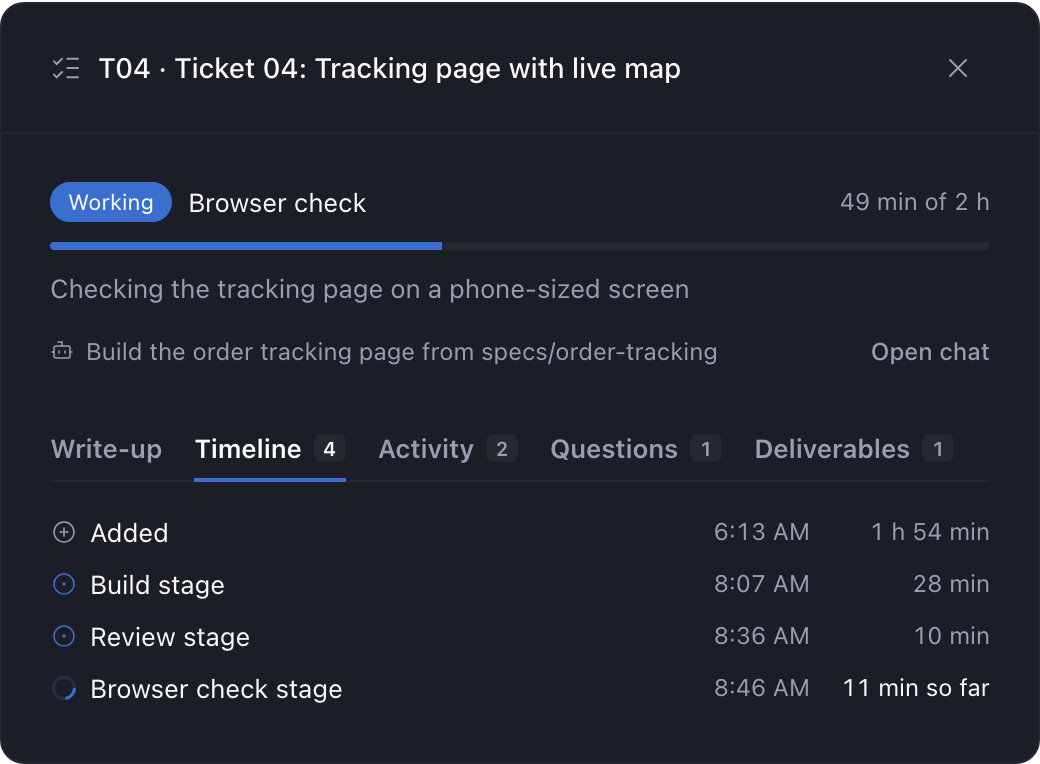
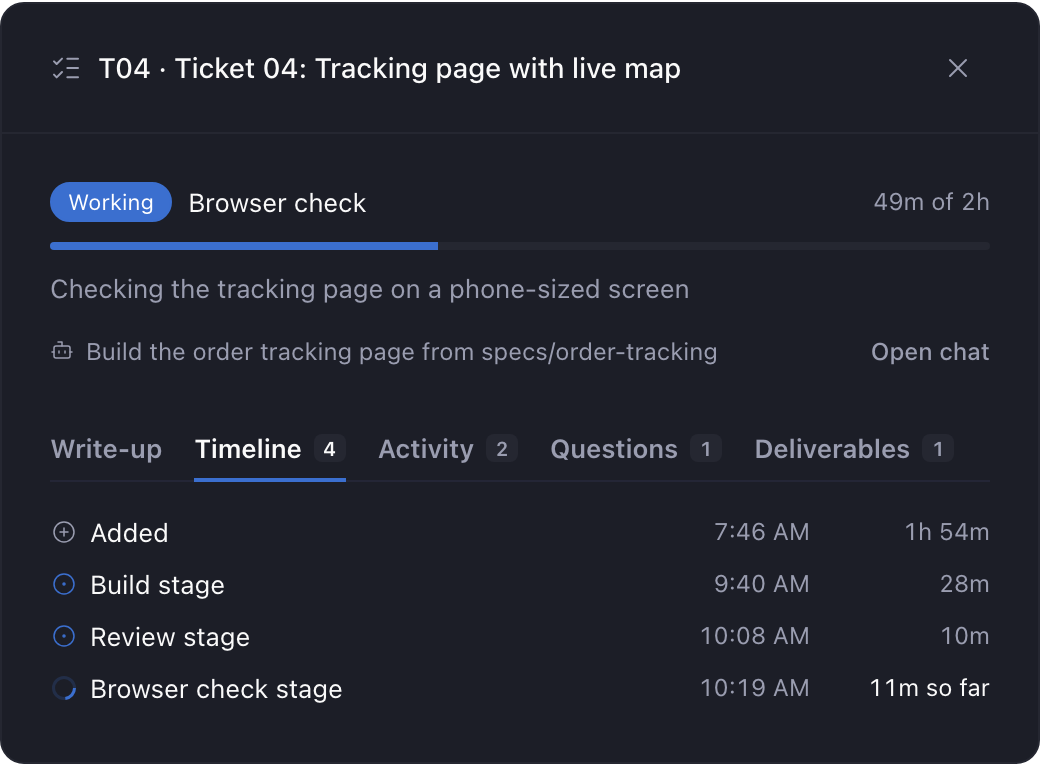
fix(progress): pill fits with something stuck, times stay in one piece, one duration style; bump to 1.0.0 (#73)
The pill shortens questions to "2Q" when something is stuck, so it fits
Paseo's 160 px pill. Times like "(11m ago)" and durations inside sentences
wrap as one piece. Every duration uses the compact "2h 15m" style, and
estimates show the exact minutes instead of tenths of an hour.

diff --git a/progress/server/progress.test.ts b/progress/server/progress.test.ts
@@ -12,7 +12,7 @@ import type { PluginHandlerContext } from "@getpaseo/plugin/server";
 import { runCli } from "./cli.ts";
 import { handleGetAttention, handleGetDashboard, handleListFolders, handleMarkPanelOpened, handleSetHistoryFolder } from "./dashboard.ts";
 import { markPanelOpened, readProgress } from "./progress-file.ts";
-import { formatEstimate, formatMinutes, formatTimeOfDay, formatWorkDone } from "../shared/format.ts";
+import { formatMinutes, formatTimeOfDay, formatWorkDone } from "../shared/format.ts";
 import { finishedToFold, headlineText, type Ticket } from "../shared/dashboard.ts";
 import { defaultLauncherPath, installLauncher, launcherStatus } from "./launcher.ts";
 import { defaultSkillPaths, installSkill, skillSource, skillStatus } from "./skill.ts";
@@ -227,7 +227,7 @@ test("a worktree without a progress file reads as not configured", async (t) => 
 test("tickets added and updated by the agent show up with ids, statuses, and the headline", async (t) => {
   const w = await worktree(t);
   assert.deepEqual(await w.run("start", "Loan Options", "--subtitle", "Frozen links"), { code: 0, text: "Started run: Loan Options" });
-  assert.equal((await w.run("ticket", "add", "Ticket 01: Saved table", "--estimate", "120")).text, "Added T01: Ticket 01: Saved table (120 min)");
+  assert.equal((await w.run("ticket", "add", "Ticket 01: Saved table", "--estimate", "120")).text, "Added T01: Ticket 01: Saved table (2h)");
   await w.run("ticket", "add", "Ticket 02: Copy Link", "--estimate", "150");
   await w.run("ticket", "add", "Ticket 03: Frozen links", "--estimate", "120");
   await w.run("ticket", "add", "Ticket 04: Time zones", "--estimate", "75");
@@ -490,7 +490,7 @@ test("a ticket links to where it's written up: a file in the worktree or a link,
   await mkdir(join(w.directory, "specs"));
   await writeFile(join(w.directory, "specs", "01-login.md"), "# Login\n");
   await w.run("start", "Run");
-  assert.equal((await w.run("ticket", "add", "Ticket 01: Login", "--estimate", "30", "--source", "specs/01-login.md")).text, "Added T01: Ticket 01: Login (30 min), source specs/01-login.md");
+  assert.equal((await w.run("ticket", "add", "Ticket 01: Login", "--estimate", "30", "--source", "specs/01-login.md")).text, "Added T01: Ticket 01: Login (30m), source specs/01-login.md");
   await w.run("ticket", "add", "Ticket 02: Reset", "--estimate", "20", "--source", "https://linear.app/acme/issue/ENG-12=ENG-12");
   await w.run("ticket", "add", "Ticket 03: No write-up", "--estimate", "20");
   let { dashboard } = await w.dashboard();
@@ -581,11 +581,11 @@ async function screenshotRun(t: TestContext) {
   return w;
 }
 
-test("progress matches the reference dashboard: 58%, 4 h 30 min of 7 h 45 min", async (t) => {
+test("progress matches the reference dashboard: 58%, 4h 30m of 7h 45m", async (t) => {
   const w = await screenshotRun(t);
   const { progress } = (await w.dashboard()).dashboard;
   assert.equal(progress.percent, 58);
-  assert.equal(formatWorkDone(progress.doneMin, progress.totalMin), "4 h 30 min of 7 h 45 min");
+  assert.equal(formatWorkDone(progress.doneMin, progress.totalMin), "4h 30m of 7h 45m");
   assert.deepEqual(
     progress.segments.map(({ id, estimateMin, status }) => `${id}:${estimateMin}:${status}`),
     ["T01:120:done", "T02:150:done", "T03:120:working", "T04:75:not_started"],
@@ -627,7 +627,7 @@ test("once every ticket is done, the dashboard says how long the run really took
   await w.run("ticket", "update", "T03", "--status", "skipped");
   const { progress } = (await w.dashboard(200)).dashboard;
   assert.equal(progress.tookMin, 85, "from the start to the last ticket settling, not to now");
-  assert.match((await w.run("show")).text, /100% of estimated work done, took 1 h 25 min/);
+  assert.match((await w.run("show")).text, /100% of estimated work done, took 1h 25m/);
 });
 
 test("a run whose tickets are all done or skipped never turns stale", async (t) => {
@@ -642,20 +642,16 @@ test("display helpers format durations and hours the way the panel shows them", 
   const morning = new Date(2026, 9, 5, 2, 8).toISOString();
   assert.equal(formatTimeOfDay(morning, new Date(2026, 9, 5, 23, 0).getTime()), "2:08 AM", "same day: just the time");
   assert.equal(formatTimeOfDay(morning, new Date(2026, 9, 6, 9, 0).getTime()), "Oct 5, 2:08 AM", "another day: the date too");
-  assert.equal(formatMinutes(0.5), "<1 min");
-  assert.equal(formatMinutes(12), "12 min");
-  assert.equal(formatMinutes(602), "10 h 2 min");
-  assert.equal(formatMinutes(120), "2 h");
-  assert.equal(formatEstimate(45), "45 min", "estimates under an hour stay in minutes");
-  assert.equal(formatEstimate(60), "1 h");
-  assert.equal(formatEstimate(66), "1.1 h");
-  assert.equal(formatEstimate(90), "1.5 h");
-  assert.equal(formatEstimate(150), "2.5 h");
-  assert.equal(formatWorkDone(10, 10), "10 of 10 min", "under an hour, the unit is said once");
-  assert.equal(formatWorkDone(0, 45), "0 min of 45 min");
-  assert.equal(formatWorkDone(30, 120), "30 min of 2 h");
-  assert.equal(formatWorkDone(90, 120), "1 h 30 min of 2 h");
-  assert.equal(formatWorkDone(120, 120, 95), "1 h 35 min", "once done, the real time replaces the estimate");
+  assert.equal(formatMinutes(0.5), "<1m");
+  assert.equal(formatMinutes(12), "12m");
+  assert.equal(formatMinutes(602), "10h 2m");
+  assert.equal(formatMinutes(120), "2h");
+  assert.equal(formatMinutes(66), "1h 6m", "estimates read exactly as set");
+  assert.equal(formatWorkDone(10, 10), "10m of 10m");
+  assert.equal(formatWorkDone(0, 45), "0m of 45m");
+  assert.equal(formatWorkDone(30, 120), "30m of 2h");
+  assert.equal(formatWorkDone(90, 120), "1h 30m of 2h");
+  assert.equal(formatWorkDone(120, 120, 95), "1h 35m", "once done, the real time replaces the estimate");
 });
 
 test("a working ticket shows its stage and when that stage started", async (t) => {
@@ -914,10 +910,10 @@ test("show prints the dashboard as text for the agent", async (t) => {
   for (const expected of [
     "Loan Options",
     "2 of 4 tickets done, 1 question waiting for you, 1 stuck",
-    "58% of estimated work done, 4 h 30 min of 7 h 45 min",
-    "POSSIBLY STALE: no update for 10 h 17 min.",
-    "Ticket 03 (no update for longer than its 2 h estimate)",
-    "T03  Working, Fixes stage  2 h  Ticket 03",
+    "58% of estimated work done, 4h 30m of 7h 45m",
+    "POSSIBLY STALE: no update for 10h 17m.",
+    "Ticket 03 (no update for longer than its 2h estimate)",
+    "T03  Working, Fixes stage  2h  Ticket 03",
     "Q1 (Row spacing): Even out the spacing? You recommended B",
     "      B) No",
     "D1  Screenshots: .scratch/shots/, Ticket 03",

diff --git a/progress/client/panel.tsx b/progress/client/panel.tsx
@@ -8,12 +8,12 @@ import { Spinner, StalledPulse, WaitingDot } from "./spinner";
 import { IconSwap, Presence, StaggerRoot, nativeDriver } from "./motion";
 import { SectionTitle } from "./section-title";
 import { raised } from "./surfaces";
-import { When } from "./when";
+import { unbroken, When } from "./when";
 import React, { useEffect, useRef, useState } from "react";
 import { ActivityIndicator, Animated, Platform, ScrollView, Text, View } from "react-native";
 import { finishedToFold, isFinished, shortTitle, type Activity, type Dashboard, type FileIssue, type ProgressSegment, type StuckItem, type Ticket } from "../shared/dashboard";
 import type { TicketStatus } from "../shared/events";
-import { formatEstimate, formatMinutes, formatWorkDone, minutesSince } from "../shared/format";
+import { formatMinutes, formatWorkDone, minutesSince } from "../shared/format";
 import { markPanelOpened } from "../shared/rpc";
 import { useDashboard } from "./dashboard-query";
 import { STATUS_LABEL } from "./status-badge";
@@ -119,7 +119,7 @@ function StatusLine({ icon, children }: { icon: React.ReactNode; children: React
   );
 }
 
-// Re-renders on an interval so "x min ago" keeps counting between polls.
+// Re-renders on an interval so "11m ago" keeps counting between polls.
 function useNow(intervalMs: number): number {
   const [now, setNow] = useState(() => Date.now());
   useEffect(() => {
@@ -204,7 +204,7 @@ function DashboardView({ colors, dashboard, agentRunning, compact, workspaceId, 
           {/* Optical: centers the 14px icon on the first 18px line. */}
           <View style={{ paddingTop: 2 }}><Icon name="TriangleAlert" size={14} color={colors.statusWarning} /></View>
           <Text style={{ flex: 1, color: colors.statusWarning, fontSize: 12, lineHeight: 18 }}>
-            Possibly stale. No update for {formatMinutes(minutesSince(dashboard.updatedAt, now))}. The work may have stopped, so working items show a warning until the next update.
+            Possibly stale. No update for {unbroken(formatMinutes(minutesSince(dashboard.updatedAt, now)))}. The work may have stopped, so working items show a warning until the next update.
           </Text>
         </View>
       ) : null}</Presence>
@@ -389,7 +389,7 @@ function StuckSection({ colors, items, now }: { colors: Colors; items: StuckItem
           <View style={{ flex: 1, minWidth: 0, gap: 2 }}>
           <Text style={{ color: colors.foreground, fontSize: 13, lineHeight: 18 }}>{item.title}</Text>
           <Text style={{ color: colors.foregroundMuted, fontSize: 12, lineHeight: 17 }}>
-            {item.kind === "overdue" ? `No update for longer than its ${formatMinutes(item.estimateMin)} estimate. Last update ` : null}
+            {item.kind === "overdue" ? `No update for longer than its ${unbroken(formatMinutes(item.estimateMin))} estimate. Last update ` : null}
             {item.kind === "blocked" ? `Blocked${item.note ? `: ${item.note}` : ""}${narrow ? ", " : ". Since "}` : null}
             {item.kind === "manual" ? `${item.ticketId ? `${item.reason}. ` : ""}Flagged ` : null}
             <When colors={colors} iso={item.since} now={now} />
@@ -448,7 +448,7 @@ function FinishedRow({ colors, tickets, shown, onPress }: { colors: Colors; tick
       {/* Narrow ticket rows drop their chevron, so this total would sit off their estimate column. */}
       {narrow ? null : <>
         <View style={{ width: 12 }} />
-        <Text style={{ minWidth: 40, flexShrink: 0, textAlign: "right", color: colors.foregroundMuted, fontSize: 12, lineHeight: 18, fontVariant: ["tabular-nums"] }}>{estimateMin ? formatEstimate(estimateMin) : ""}</Text>
+        <Text style={{ minWidth: 44, flexShrink: 0, textAlign: "right", color: colors.foregroundMuted, fontSize: 12, lineHeight: 18, fontVariant: ["tabular-nums"] }}>{estimateMin ? formatMinutes(estimateMin) : ""}</Text>
       </>}
       <View style={{ paddingTop: 2 }}>
         <IconSwap swapKey={chevron} size={14}><Icon name={chevron} size={14} color={colors.foregroundMuted} /></IconSwap>
@@ -490,11 +490,11 @@ function TicketRow({ colors, ticket, live, now, onOpen, deliverables }: { colors
         ) : null}
         {ticket.note ? <Text style={{ color: colors.foregroundMuted, fontSize: 12, lineHeight: 17 }}>{ticket.note}</Text> : null}
       </View>
-      {/* Fixed slots so the Package icon and estimates line up down the list, whether or not a row has deliverables; they're listed in its dialog. The estimate slot fits "45 min" and "10.5 h"; longer ones grow rather than clip. */}
+      {/* Fixed slots so the Package icon and estimates line up down the list, whether or not a row has deliverables; they're listed in its dialog. The estimate slot fits "45m" up to "9h 45m"; longer ones grow rather than clip. */}
       <View accessibilityLabel={deliverables ? (deliverables === 1 ? "Has a deliverable" : `Has ${deliverables} deliverables`) : undefined} style={{ width: 12, height: 18, justifyContent: "center" }}>
         {deliverables ? <Icon name="Package" size={12} color={colors.foregroundMuted} /> : null}
       </View>
-      <Text style={{ minWidth: 40, flexShrink: 0, textAlign: "right", color: colors.foregroundMuted, fontSize: 12, lineHeight: 18, fontVariant: ["tabular-nums"] }}>{formatEstimate(ticket.estimateMin)}</Text>
+      <Text style={{ minWidth: 44, flexShrink: 0, textAlign: "right", color: colors.foregroundMuted, fontSize: 12, lineHeight: 18, fontVariant: ["tabular-nums"] }}>{formatMinutes(ticket.estimateMin)}</Text>
       {narrow ? null : <View style={{ paddingTop: 2 }}><Icon name="ChevronRight" size={14} color={colors.foregroundMuted} /></View>}
     </PressableRow>
   );

diff --git a/progress/shared/format.ts b/progress/shared/format.ts
@@ -3,30 +3,22 @@
 
 const MONTHS = ["Jan", "Feb", "Mar", "Apr", "May", "Jun", "Jul", "Aug", "Sep", "Oct", "Nov", "Dec"];
 
+// Durations in the compact style the other plugins and most dashboards use:
+// "45m", "2h", "2h 15m". Minutes are whole, so estimates read exactly as set.
 export function formatMinutes(totalMin: number): string {
   const whole = Math.max(0, Math.floor(totalMin));
-  if (whole < 1) return "<1 min";
+  if (whole < 1) return "<1m";
   const hours = Math.floor(whole / 60);
   const minutes = whole % 60;
-  if (!hours) return `${minutes} min`;
-  return minutes ? `${hours} h ${minutes} min` : `${hours} h`;
+  if (!hours) return `${minutes}m`;
+  return minutes ? `${hours}h ${minutes}m` : `${hours}h`;
 }
 
-// A ticket's estimate, the way people say one: "45 min" under an hour, then
-// hours to one decimal: "1 h", "1.5 h", "2.1 h".
-export function formatEstimate(totalMin: number): string {
-  if (totalMin < 60) return formatMinutes(totalMin);
-  return `${Math.round(totalMin / 6) / 10} h`;
-}
-
-// Estimated work done out of the total, in the units people estimate in:
-// "5 of 10 min", "1 h 30 min of 2 h". Under an hour on both sides, the unit is
-// said once.
-// Once everything is done, how long it really took instead: "1 h 20 min".
+// Estimated work done out of the total: "5m of 10m", "1h 30m of 2h".
+// Once everything is done, how long it really took instead: "1h 20m".
 export function formatWorkDone(doneMin: number, totalMin: number, tookMin?: number): string {
   if (tookMin !== undefined) return formatMinutes(tookMin);
-  if (totalMin < 60 && doneMin >= 1) return `${Math.floor(doneMin)} of ${formatMinutes(totalMin)}`;
-  return `${doneMin < 1 ? "0 min" : formatMinutes(doneMin)} of ${formatMinutes(totalMin)}`;
+  return `${doneMin < 1 ? "0m" : formatMinutes(doneMin)} of ${formatMinutes(totalMin)}`;
 }
 
 export function formatClock(iso: string): string {

diff --git a/progress/client/lifecycle.test.ts b/progress/client/lifecycle.test.ts
@@ -88,7 +88,9 @@ test("one rule decides what the pill shows, its icon, and whether pressing it op
   const phone = { phone: true };
   const cases: Array<[string, unknown, { phone: boolean }, unknown]> = [
     ["no progress file", { ...report(2, 1, true, false), configured: false }, desktop, null],
-    ["questions and stuck", report(2, 1, true, true), desktop, { mode: "attention", label: "2 questions · 1 stuck", icon: "stuck" }],
+    ["questions and stuck", report(2, 1, true, true), desktop, { mode: "attention", label: "2Q · 1 stuck", icon: "stuck" }],
+    ["questions only keep the full word", report(12, 0, true, true), desktop, { mode: "attention", label: "12 questions", icon: "questions" }],
+    ["stuck only", report(0, 2, true, true), desktop, { mode: "attention", label: "2 stuck", icon: "stuck" }],
     ["one question, even after the run closed", report(1, 0, false, true), desktop, { mode: "attention", label: "1 question", icon: "questions" }],
     ["a new run's panel never opened", report(0, 0, true, false), desktop, { mode: "started", label: "Progress", icon: "started" }],
     ["panel opened, desktop has Explorer", report(0, 0, true, true), desktop, null],
@@ -121,7 +123,7 @@ test("an agent's composer shows a pill while its workspace has questions waiting
   assert.equal(active().length, 2, "one pill per agent in a workspace that needs attention");
   const pill = active().find((entry) => entry.agentId === "a");
   assert.equal(pill?.placement, "composer");
-  assert.equal(pill?.button.label, "2 questions · 1 stuck");
+  assert.equal(pill?.button.label, "2Q · 1 stuck");
   assert.equal(pill?.button.behavior.kind, "popover", "the pill opens a popover with the questions");
   // The popover's Open Progress button opens the panel in Explorer.
   pill?.button.behavior.Content({ workspaceId: "w", close() {} }).props.openPanel();

diff --git a/progress/shared/show.ts b/progress/shared/show.ts
@@ -1,6 +1,6 @@
 import type { Dashboard } from "./dashboard.ts";
 import { headlineText, shortTitle } from "./dashboard.ts";
-import { formatAgo, formatClock, formatEstimate, formatMinutes, formatWorkDone, minutesSince } from "./format.ts";
+import { formatAgo, formatClock, formatMinutes, formatWorkDone, minutesSince } from "./format.ts";
 
 const STATUS: Record<string, string> = { not_started: "Not started", working: "Working", blocked: "Blocked", done: "Done", skipped: "Skipped" };
 
@@ -38,7 +38,7 @@ export function dashboardText(dashboard: Dashboard, nowMs: number): string {
   for (const ticket of dashboard.tickets) {
     const stage = ticket.status === "working" && ticket.stage ? `, ${ticket.stage} stage` : "";
     const status = ticket.waitingFor ? `Waiting for ${ticket.waitingFor.id}` : STATUS[ticket.status];
-    lines.push(`  ${ticket.id}  ${status}${stage}  ${formatEstimate(ticket.estimateMin)}  ${ticket.title}`);
+    lines.push(`  ${ticket.id}  ${status}${stage}  ${formatMinutes(ticket.estimateMin)}  ${ticket.title}`);
     if (ticket.source) lines.push(`      Source: ${ticket.source.path ?? ticket.source.url}${ticket.source.label ? ` (${ticket.source.label})` : ""}`);
   }
   if (dashboard.questions.open.length) {

diff --git a/progress/client/when.tsx b/progress/client/when.tsx
@@ -6,13 +6,20 @@ import { useNarrow } from "./narrow";
 
 type Colors = PluginWorkspacePanelProps["theme"]["colors"];
 
-// "Sep 27, 8:14 PM (10 h 2 min ago)", inline inside other text. A narrow
-// panel shows only "10 h 2 min ago"; the ticket dialog keeps the clock time.
+// A time like "2h 15m ago" inside wrapping text moves to the next line as one
+// piece instead of breaking after "2h".
+export function unbroken(text: string): string {
+  return text.replaceAll(" ", "\u00a0");
+}
+
+// "Sep 27, 8:14 PM (10h 2m ago)", inline inside other text. A narrow
+// panel shows only "10h 2m ago"; the ticket dialog keeps the clock time.
 export function When({ colors, iso, now }: { colors: Colors; iso: string; now: number }) {
-  if (useNarrow()) return <Text>{formatAgo(iso, now)}</Text>;
+  const ago = unbroken(formatAgo(iso, now));
+  if (useNarrow()) return <Text>{ago}</Text>;
   return (
     <Text>
-      {formatClock(iso)} <Text style={{ color: colors.foregroundMuted, opacity: 0.7 }}>({formatAgo(iso, now)})</Text>
+      {formatClock(iso)} <Text style={{ color: colors.foregroundMuted, opacity: 0.7 }}>({ago})</Text>
     </Text>
   );
 }

diff --git a/progress/server/cli.ts b/progress/server/cli.ts
@@ -11,6 +11,7 @@ import { findRoot, outside } from "./paths.ts";
 import { installLauncher } from "./launcher.ts";
 import { findStore, saveRunCopy } from "./store.ts";
 import { dashboardText } from "../shared/show.ts";
+import { formatMinutes } from "../shared/format.ts";
 import { imageMimeType } from "../shared/attachments.ts";
 import { homedir } from "node:os";
 
@@ -199,7 +200,7 @@ const commands: Record<string, Command> = {
       const id = state.nextIds.ticket;
       return {
         event: { type: "ticket.add", id, title, estimateMin, status: statusOption(values.status), waitsFor, source },
-        message: `Added ${id}: ${title} (${estimateMin} min)${waitsFor ? `, waits for ${waitsFor}` : ""}${source ? `, source ${source.path ?? source.url}` : ""}`,
+        message: `Added ${id}: ${title} (${formatMinutes(estimateMin)})${waitsFor ? `, waits for ${waitsFor}` : ""}${source ? `, source ${source.path ?? source.url}` : ""}`,
       };
     },
   },

diff --git a/progress/client/pill-state.ts b/progress/client/pill-state.ts
@@ -17,8 +17,10 @@ export function pillFor(report: AttentionResult | undefined, where: { phone: boo
   if (!report?.configured) return null;
   const { questions, stuck } = report;
   if (questions || stuck) {
+    // Paseo cuts composer pills off at 160 px, so when something is stuck
+    // too, the questions shorten to "2Q" to leave room for "1 stuck".
     const parts = [];
-    if (questions) parts.push(`${questions} ${questions === 1 ? "question" : "questions"}`);
+    if (questions) parts.push(stuck ? `${questions}Q` : `${questions} ${questions === 1 ? "question" : "questions"}`);
     if (stuck) parts.push(`${stuck} stuck`);
     return { mode: "attention", label: parts.join(" · "), icon: stuck ? "stuck" : "questions" };
   }

diff --git a/progress/README.md b/progress/README.md
@@ -10,7 +10,7 @@ The dashboard shows:
 
 - the run's title, a headline ("2 of 4 tickets done, 5 questions waiting for you, 1 stuck"), a one-line "now" ticker, and when it was last updated
 - a "possibly stale" warning after 15 minutes with no update while tickets remain, unless Paseo shows an agent in the workspace still running, and never once every ticket is done or skipped or the run is finished; working items swap their spinner for a pulsing amber warning
-- percent of estimated work done, time done of time estimated (like "1 h 30 min of 2 h"; once everything is done, how long it really took), and a bar with one segment per ticket
+- percent of estimated work done, time done of time estimated (like "1h 30m of 2h"; once everything is done, how long it really took), and a bar with one segment per ticket
 - **Stuck:** blocked tickets, working tickets with no update for longer than their estimate, and blockers the agent flags
 - **Tickets:** estimate, status, and the working ticket's stage. A ticket that waits for another (`--waits-for T03`) shows "Waits for Ticket 03" under its title until that one is done; waiting is the order of work, so it never counts as stuck, even if the agent also marked it blocked. Press a ticket for its story in a dialog. A summary on top shows its status and stage, time worked against the estimate as a bar that turns red past it, the agent's latest status line while it's working, and the agent on it. Tabs below hold the rest, each only when it has something: the ticket's write-up when it has a `--source` file (the start of it, with the rest a press away), a timeline of its stages and statuses with how long each took, and the activity, questions and deliverables that belong to it. The agent on a ticket shows by its chat title; pressing it opens that chat. Items tagged with `--ticket` belong exactly; older, untagged ones are matched by when they happened and marked "by time"
 - **Questions:** each with a permanent reference (Q1, Q2, ...), lettered options, and the option the agent recommends. The agent builds nothing a question affects until you answer; it works on other things meanwhile, and stops when nothing else is left. Press a question to open it in a dialog, then press **Copy Q2 B** to copy `Q2 (title): B` for your reply. Files and links the agent attached (`--file`) open like deliverables: images and text files preview in Paseo (with **Back** to the question), links open in Paseo's browser, and other files open in their default app. From the pill's popover, the preview opens over the popover, which stays open so you can go back to it. Answers stay listed under the same reference.
@@ -18,7 +18,7 @@ The dashboard shows:
 
 <img src="images/2-ticket.png" alt="A ticket's story: its status, time against the estimate, the agent on it, and its timeline" width="400"> <img src="images/3-question.png" alt="A question waiting for an answer, with lettered options, the agent's recommendation and Copy buttons" width="400">
 
-The panel lives in Explorer, beside the agent chat, so you can watch both. Open it from Command Center with **Open Progress**. When questions are waiting or something is stuck, a pill above the message box shows it (`3 questions · 1 stuck`). Pressing it opens a popover with each open question, its choices and their Copy buttons, and what is stuck, so you can answer without leaving the chat. **Open Progress** at the bottom opens the panel in Explorer.
+The panel lives in Explorer, beside the agent chat, so you can watch both. Open it from Command Center with **Open Progress**. When questions are waiting or something is stuck, a pill above the message box says so, for example `3 questions`. With something stuck too, it shortens to `3Q · 1 stuck` to fit. Pressing it opens a popover with each open question, its choices and their Copy buttons, and what is stuck, so you can answer without leaving the chat. **Open Progress** at the bottom opens the panel in Explorer.
 
 <img src="images/4-pill.png" alt="The pill above the message box, showing two questions waiting" width="600">
 
@@ -124,6 +124,14 @@ The progress file, `progress.jsonl`, holds one JSON event per line, each with a 
 - Stale warnings and overdue times use the daemon host's clock.
 
 ## Changelog
+
+### 1.0.0
+
+- Version 1.0. Nothing you use changes. From now on, a new first number means an update breaks something, a new middle number means a new feature, and a new last number means a fix.
+- The pill above the message box fits again when questions are waiting and something is stuck. It reads `2Q · 1 stuck`. Before, Paseo cut it off at `2 questions · 1 st…`.
+- A time like `(11m ago)` moves to the next line whole. It no longer splits in the middle.
+- Every duration uses one style, like `2h 15m`. Before, the progress bar said `2 h 15 min` and the finished tickets said `2.3 h` for the same work. Estimates show the minutes you set, so a 90-minute ticket reads `1h 30m`, not `1.5 h`.
+- New screenshots in this README.
 
 ### 0.4.0
 
